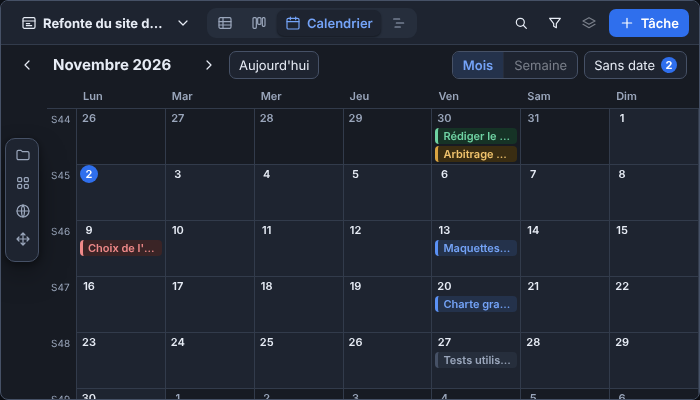
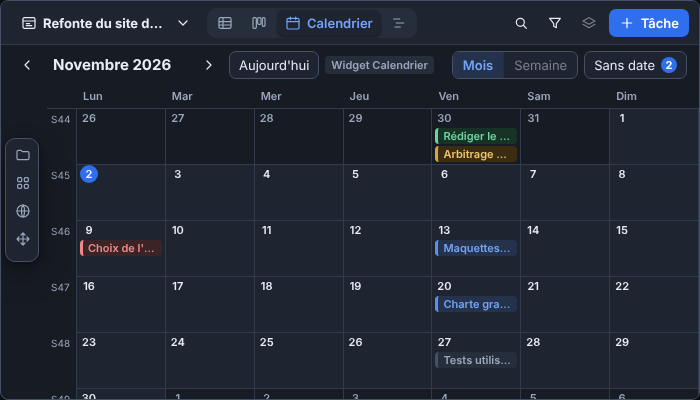
Retours du porteur : calendrier à part, tables et donnée référençable partout, liens entre apps, priorité onboarding
Claude-Session: https://claude.ai/code/session_01TbSoW1xniwzTJnLWvZGB81

Changed region(s): [[0.45, 0.12, 0.63, 0.21]]

diff --git a/maquettes/maquette.js b/maquettes/maquette.js
@@ -57,6 +57,7 @@ const ICONS = {
   open: '<path d="M14 4h6v6M20 4l-9 9M10 6H5v13h13v-5"/>', trash: '<path d="M4 7h16M9 7V4h6v3M6 7l1 13h10l1-13"/>',
   more: '<circle cx="5" cy="12" r="1.2"/><circle cx="12" cy="12" r="1.2"/><circle cx="19" cy="12" r="1.2"/>',
   undo: '<path d="M9 7L4 12l5 5"/><path d="M4 12h10a6 6 0 010 8"/>', check: '<path d="M5 12l5 5 9-10"/>', lock: '<rect x="5" y="11" width="14" height="9" rx="2"/><path d="M8 11V8a4 4 0 018 0v3"/>',
+  slides: '<rect x="3" y="5" width="18" height="12" rx="2"/><path d="M12 17v4M8 21h8"/>',
   doc: '<path d="M7 3h7l5 5v13H7z"/><path d="M14 3v5h5M10 13h6M10 17h6"/>', grid: '<rect x="4" y="5" width="16" height="14" rx="1.5"/><path d="M4 10h16M4 14.5h16M10 5v14"/>',
   form: '<rect x="5" y="3" width="14" height="18" rx="2"/><path d="M9 8h6M9 12h6M9 16h3"/>', bolt: '<path d="M13 3L5 14h6l-1 7 8-11h-6z"/>', project: '<rect x="3" y="4" width="18" height="16" rx="2"/><path d="M3 9h18M8 13h5M8 16h8"/>',
   info: '<circle cx="12" cy="12" r="9"/><path d="M12 11v5M12 8h.01"/>', pin: '<path d="M9 4h6l-1 6 3 3H7l3-3zM12 13v7"/>',
@@ -168,7 +169,7 @@ function viewCalendrier(list) {
       cells.push(`<div class="day ${out ? 'out' : ''} ${s === TODAY ? 'today' : ''}" data-date="${s}"><div class="dn"><b>${num}</b>${ev.length > 2 ? `<span class="more">+${ev.length - 2}</span>` : ''}</div>${ev.slice(0, 2).map((t) => `<button class="ev st-${t.s}" data-act="open" data-v="${t.id}" data-id="${t.id}" draggable="${!S.ro}" title="${esc(t.t)}"><span class="ellipsis" style="display:block">${esc(t.t)}</span></button>`).join('')}</div>`);
     }
   }
-  return `<div class="cal-head"><button class="btn icon" data-act="month" data-v="-1" aria-label="Mois précédent">${ic('left')}</button><h2>${label[0].toUpperCase() + label.slice(1)}</h2><button class="btn icon" data-act="month" data-v="1" aria-label="Mois suivant">${ic('right')}</button><button class="btn line" data-act="today">Aujourd'hui</button><span class="spacer"></span><div class="seg"><button aria-pressed="true">Mois</button><button aria-pressed="false" class="is-off" title="Semaine : même vue en V1, détail dans le cahier">Semaine</button></div><button class="btn line" data-act="menu" data-v="sansdate" aria-haspopup="menu">Sans date <span class="badge">${nodate}</span></button></div><div class="zone" style="padding-top:0"><div class="cal">${cells.join('')}</div></div>`;
+  return `<div class="cal-head"><button class="btn icon" data-act="month" data-v="-1" aria-label="Mois précédent">${ic('left')}</button><h2>${label[0].toUpperCase() + label.slice(1)}</h2><button class="btn icon" data-act="month" data-v="1" aria-label="Mois suivant">${ic('right')}</button><button class="btn line" data-act="today">Aujourd'hui</button><span class="tag" title="Le calendrier est un widget à part que Tuesday intègre">Widget Calendrier</span><span class="spacer"></span><div class="seg"><button aria-pressed="true">Mois</button><button aria-pressed="false" class="is-off" title="Semaine : même vue en V1, détail dans le cahier">Semaine</button></div><button class="btn line" data-act="menu" data-v="sansdate" aria-haspopup="menu">Sans date <span class="badge">${nodate}</span></button></div><div class="zone" style="padding-top:0"><div class="cal">${cells.join('')}</div></div>`;
 }
 const ZOOM = { semaine: 20, mois: 8, trimestre: 4 };
 function viewChrono(list) {
@@ -214,7 +215,7 @@ function drawer() {
   return `<aside class="drawer" aria-label="Fiche de la tâche"><div class="dr-head"><input class="ttl" value="${esc(t.t)}" aria-label="Titre" ${ro}><button class="btn icon" data-act="menu" data-v="plus" aria-haspopup="menu" aria-label="Plus d'actions">${ic('more')}</button><button class="btn icon" data-act="closedrawer" aria-label="Fermer la fiche">${ic('close')}</button></div>
   <div class="dr-body">
     <div class="fld"><label>Statut</label><div class="v">${pill(t.s, S.ro ? 'span' : 'button', S.ro ? '' : `data-act="menu" data-v="statut:${t.id}"`)}</div></div>
-    <div class="fld"><label>Responsable</label><div class="v">${who(t.w)}</div></div>
+    <div class="fld"><label>Responsable</label><div class="v"><button class="lnk" data-act="noop" title="Ouvre la ligne liée (table Équipe)">${who(t.w)}</button></div></div>
     <div class="fld"><label>Début</label><div class="v">${S.noStart ? '<span class="badge-lock">' + ic('lock') + 'Colonne non reliée</span>' : fdate(t.b)}</div></div>
     <div class="fld"><label>Échéance</label><div class="v">${due(t)}</div></div>
     <div class="fld"><label>Priorité</label><div class="v">${prio(t.p)}</div></div>
@@ -224,6 +225,11 @@ function drawer() {
     <h4>Sous-tâches (${subs.length})</h4>
     <ul class="subs">${subs.map((x) => `<li><input type="checkbox" ${x.s === 'done' ? 'checked' : ''} ${ro} aria-label="${esc(x.t)}"><span class="${x.s === 'done' ? 'done' : ''} ellipsis">${esc(x.t)}</span></li>`).join('') || '<li class="muted">Aucune sous-tâche</li>'}
     <li><button class="tbl-add" style="padding-left:0;border:0;background:transparent" ${ro}>${ic('plus')}Ajouter une sous-tâche</button></li></ul>
+    <h4>Fichiers liés (2)</h4>
+    <ul class="subs files">
+      <li>${ic('doc', 'ty-doc')}<span class="ellipsis" style="flex:1">Compte rendu de l'atelier<span class="muted"> · Publipostage+</span></span><button class="btn line" ${S.ro ? '' : ''}>Ouvrir</button></li>
+      <li>${ic('slides', 'ty-slides')}<span class="ellipsis" style="flex:1">Présentation de cadrage<span class="muted"> · Publipostage+</span></span><button class="btn line">Ouvrir</button></li>
+      <li><button class="tbl-add" style="padding-left:0;border:0;background:transparent" ${ro} title="Ouvre l'explorateur de GFS pour choisir un fichier">${ic('plus')}Lier un fichier…</button></li></ul>
     <h4>Autres champs de la table</h4>
     ${EXTRA.map(([k, v]) => `<div class="fld"><label>${esc(k)}</label><div class="v">${esc(v)}</div></div>`).join('')}
   </div>
@@ -273,7 +279,7 @@ function menuHtml() {
   if (m === 'filtre') { body = `<h5>Filtres rapides</h5>${it('Mes tâches', 'filter', 'mine', S.filters.mine)}${it('En retard', 'filter', 'late', S.filters.late)}<hr><h5>Ajoutés à ceux de la vue Grist, jamais à leur place</h5>`; pos = 'top:44px;right:90px'; }
   if (m === 'groupe') { body = `<h5>Grouper par</h5>${it('Phase', 'group', 'g', S.groupBy === 'g')}${it('Statut', 'group', 's', S.groupBy === 's')}${it('Responsable', 'group', 'w', S.groupBy === 'w')}`; pos = 'top:44px;right:50px'; }
   if (m === 'sansdate') { body = `<h5>À planifier : glissez sur un jour</h5>${TASKS.filter((t) => !t.e && !t.par).map((t) => it(esc(t.t), 'open', t.id)).join('')}`; pos = 'top:88px;right:12px'; }
-  if (m === 'plus') { body = `${it('Dupliquer', 'noop', '', null, S.ro ? 'disabled' : '')}${it('Ouvrir dans Grist', 'noop', '')}<hr>${it('Supprimer…', 'noop', '', null, S.ro ? 'disabled' : '')}`; pos = 'top:40px;right:40px'; }
+  if (m === 'plus') { body = `${it('Dupliquer', 'noop', '', null, S.ro ? 'disabled' : '')}${it('Ouvrir dans Grist', 'noop', '')}${it('Insérer la carte dans un document… <span class="tag">V2</span>', 'noop', '', null, 'disabled')}<hr>${it('Supprimer…', 'noop', '', null, S.ro ? 'disabled' : '')}`; pos = 'top:40px;right:40px'; }
   return `<div class="menu" role="menu" style="${pos}">${body}</div>`;
 }
 

diff --git a/maquettes/index.html b/maquettes/index.html
@@ -7,7 +7,7 @@
 <meta http-equiv="Content-Security-Policy" content="default-src 'none'; script-src 'self'; style-src 'self' 'unsafe-inline'; img-src 'self' data:">
 <title>Tuesday : maquette V1</title>
 <link rel="stylesheet" href="../kit/css/tokens.css">
-<link rel="stylesheet" href="maquette.css?v=1">
+<link rel="stylesheet" href="maquette.css?v=3">
 </head>
 <body>
 <header class="mq-top">
@@ -25,6 +25,6 @@
   <div class="mq-stage"><div class="frame" id="frame" data-bar="left"></div></div>
   <p class="mq-caption">Le cadre reproduit le panneau de référence de Grist (700 × 400). La barre de Grist Factory Suite est simulée par-dessus ; la zone qu'elle recouvre est libérée par une simple gouttière dans cette maquette (le détail ligne par ligne est à définir avec GFS). Glissez une carte du kanban ou une tâche du calendrier, cliquez une pastille de statut, une ligne, ou le nom du projet.</p>
 </main>
-<script src="maquette.js?v=1"></script>
+<script src="maquette.js?v=3"></script>
 </body>
 </html>

diff --git a/maquettes/maquette.css b/maquettes/maquette.css
@@ -264,3 +264,10 @@ svg.i.big { width: 36px; height: 36px; color: var(--text-muted); }
 
 .frame[data-bar="left"] .tl-corner, .frame[data-bar="left"] .tl-label { padding-left: 46px; }
 .today-flag { top: 23px; }
+
+.lnk { border: 0; background: transparent; padding: 2px 4px; margin-left: -4px; border-radius: 6px; color: var(--accent-ink); text-decoration: underline; text-underline-offset: 2px; cursor: pointer; }
+.lnk:hover { background: var(--accent-soft); }
+.subs.files li { gap: 8px; }
+.subs.files .muted { font-size: 12px; }
+.ty-slides { color: #c7600a; }
+:root[data-theme="dark"] .ty-slides { color: #f0933e; }

diff --git a/docs/cahier-des-charges.md b/docs/cahier-des-charges.md
@@ -1,18 +1,21 @@
 # Cahier des charges : Tuesday
 
-Gestion de projet pour Grist, dans Grist Factory Suite (GFS). Version 0.1 du 02/11/2026, rédigée avec la maquette V1 (`../maquettes/index.html`). Les raisons de chaque choix viennent de l'étude de l'existant (`etude-existant.md`), des documents de GFS (cahier, guide des apps, contrats) et de la charte Grist Factory (section 1).
+Gestion de projet pour Grist, dans Grist Factory Suite (GFS). Version 0.2 du 02/11/2026, rédigée avec la maquette V1 (`../maquettes/index.html`). **0.2 : retours du porteur intégrés** (Calendrier à part, tables et donnée référençable partout, intégration entre apps dès la V1) ; détail dans `integration-suite.md`. Les raisons de chaque choix viennent de l'étude de l'existant (`etude-existant.md`), des documents de GFS (cahier, guide des apps, contrats) et de la charte Grist Factory (section 1).
 
 **Nom.** « Tuesday » est le nom de travail, celui du dépôt. Les documents de GFS parlent de « Thusday » (faute de frappe probable). Les identifiants proposés ici : app `tuesday`, tables `Tuesday_…`. À confirmer (section 13, question 1).
 
 ## En bref
 
-- **Ce que c'est.** Un widget Grist qui montre les lignes d'une table comme un projet : un **tableau**, un **kanban**, un **calendrier** et une **chronologie**, avec une **fiche** par tâche. Inspiré de monday.com pour la clarté, volontairement bien plus simple.
+- **Priorité n°1 : l'onboarding et la fluidité** (principe 0, section 2).
+- **Ce que c'est.** Un widget Grist qui montre les lignes d'une table comme un projet : un **tableau**, un **kanban** et une **chronologie**, avec une **fiche** par tâche ; le **calendrier** est un widget à part que Tuesday intègre (`integration-suite.md`, 1). Inspiré de monday.com pour la clarté, volontairement bien plus simple.
 - **Ce qu'il fait de différent.** Il travaille **avec** la donnée de la personne : il se **branche sur une table existante** par une correspondance de colonnes choisie dans l'interface, et n'impose aucune structure. Les statuts, les couleurs, les personnes viennent de Grist.
 - **Ce qu'il ne fait pas.** Pas de calcul (les formules restent dans Grist), pas de formulaires (Form+), pas d'automatisations (Automation+), pas de tableaux de bord riches (Grist-BI), pas de documents (Publipostage+).
 - **Dans GFS.** Un **projet** est un fichier de l'explorateur de GFS (une ligne de la table `Tuesday_Projets`). Tuesday suit les contrats de GFS : manifeste `gfs.json`, kit commun en sous-module, langue et barre de GFS, stockage par le courtier, grisé jamais masqué.
 - **Livraison.** Pages statiques sur GitHub Pages, sans étape de construction, sans bibliothèque tierce en V1. Utilisé surtout sur l'instance Grist de la DINUM.
 - **Tests.** Exhaustifs dès la première ligne de code (section 10).
-- **Trois versions.** V1 « Suivre » (quatre vues, fiche, correspondance), V2 « Piloter » (dépendances, charge, synthèse, récurrence), V3 « Connecter » (liens vers les autres apps de la suite, commentaires, temps).
+- **Données.** Navigation libre entre les tables, **deux tables propres au plus**, tout en colonnes lisibles : une tâche se référence de partout dans le document comme une variable de Publipostage+ (section 5.7).
+- **Intégration entre apps dès la V1.** Ouvrir un fichier de Publipostage+ (document, grille, présentation) depuis une carte ; ensuite, insérer une carte dans un document (V2, contrat posé dès maintenant).
+- **Trois versions.** V1 « Suivre » (tableau, kanban, chronologie, calendrier intégré, fiche, correspondance, fichiers liés), V2 « Piloter » (insertion de carte, dépendances, charge, synthèse, récurrence), V3 « Connecter » (commentaires, temps, portefeuille).
 
 ---
 
@@ -42,6 +45,7 @@ Les équipes qui travaillent dans Grist suivent déjà leur activité dans des t
 
 Dans l'ordre : quand deux principes s'opposent, le premier gagne.
 
+0. **Onboarding et fluidité d'abord** (priorité n°1, porteur, 02/11). Un outil qui ne bloque jamais, utilisable pour un projet simple **sans boutons partout** : la première minute est l'étape la plus importante, et chaque choix de ce cahier se juge d'abord à ce critère. Règles qui en découlent : un projet simple n'a besoin d'aucune configuration au-delà de la correspondance ; la barre du haut garde au plus **sept contrôles visibles** à 700 × 400 (projet, quatre vues, recherche, filtre, groupement, ajout) et une fonction avancée se montre quand on en a besoin (menu, fiche), pas avant ; aucune erreur muette ni écran bloquant, toujours une sortie dite en une phrase. L'onboarding détaillé (premier lancement, première correspondance, modèle de départ, aide) est conçu dans un **fil dédié** (« Concevoir l'onboarding de Tuesday ») ; ce cahier en fixe seulement le critère.
 1. **UX d'abord, simple et efficace.** Chaque écran a une action principale évidente. Quatre vues au premier jour, jamais quinze. Une option nouvelle doit justifier la place qu'elle prend.
 2. **On fait AVEC la donnée, pas à la place d'elle.** Aucune structure imposée. Une table existante, une correspondance de colonnes, et c'est parti. Les couleurs des statuts de Grist sont **celles de Grist**.
 3. **Grist décide.** Les droits sont ceux de Grist (une personne en lecture seule ne modifie rien), les filtres et le tri de la vue Grist sont respectés, la fiche native reste à un clic.
@@ -87,12 +91,11 @@ Chacun sert de **test d'acceptation de l'interface** (section 10.5).
 
 ```
 Document Grist
- ├─ Table des tâches (la leur, existante)  ← « source »
- └─ Tuesday_Projets  (une ligne par projet, créée avec l'accord de la personne)
-        │
-        └─ Projet = source + correspondance de colonnes + réglages des vues
-                          │
-                          └─ Vues : Tableau · Kanban · Calendrier · Chronologie
+ ├─ Table des tâches (la leur, existante)   ← « source », jamais copiée
+ ├─ Tuesday_Projets  un projet par ligne : source + correspondance + réglages des vues
+ └─ Tuesday_Liens    liens d'une tâche vers des fichiers d'autres apps (facultative)
+
+Un projet montre sa source par des vues : Tableau · Kanban · Chronologie · Calendrier (intégré)
 ```
 
 | Objet | Définition | Où il vit |
@@ -183,9 +186,9 @@ La source est la table de la **section** du widget (le choix naturel : « Sélec
 
 **Annuler/Rétablir** garde l'inverse de chaque action (ancienne valeur par colonne), dans l'ordre, et **n'écrase jamais** une valeur qu'une autre personne a changée depuis : le coin d'état le dit (même principe que `ActionHistory` de Publipostage+). Un lot d'écritures (un glisser qui change deux colonnes) est un pas.
 
-### 5.5 La table `Tuesday_Projets` et le modèle de départ
+### 5.5 Les tables `Tuesday_Projets` et `Tuesday_Liens`, et le modèle de départ
 
-Une table, créée avec l'accord de la personne. Proposition de colonnes (additif, versionné par `Schema`) :
+**Deux tables au plus**, créées avec l'accord de la personne : `Tuesday_Projets` (ci-dessous) et `Tuesday_Liens` (liens d'une tâche vers des fichiers d'autres apps, `integration-suite.md`, 3.1). Proposition de colonnes (additif, versionné par `Schema`) :
 
 | Colonne | Contenu |
 |---|---|
@@ -205,6 +208,14 @@ Les identifiants de colonnes sont des colonnes de texte et non un seul JSON : on
 ### 5.6 Cas limites à traiter (chacun a ses tests)
 
 Table vide ; ligne sans statut (rangée dans une colonne « Sans statut », jamais perdue) ; statut absent de la liste des choix (affiché tel quel, grisé) ; référence cassée ; dates invalides, fin avant début ; dates avec heure (la date locale suffit) ; milliers de lignes (affichage fenêtré, section 9.4) ; titre très long (tronqué par « … ») ; colonne reliée supprimée ou renommée ; document en lecture seule ; Choice sans couleur ; plusieurs responsables ; sous-tâche dont le parent est filtré.
+
+### 5.7 Naviguer entre les tables, référencer la donnée partout
+
+Retour du porteur (02/11) : comme dans GFS et Publipostage+, **on navigue entre les tables sans souci**, et la donnée se récupère et se référence **de partout dans le document, aussi efficacement que les variables de Publipostage+**. Trois règles (détail : `integration-suite.md`, 2) :
+
+1. **Colonnes lisibles, rien de caché.** Tout ce que Tuesday sait d'une tâche est une colonne de Grist ; une variable de Publipostage+, une formule, un widget lié ou Automation+ la lisent sans passer par Tuesday.
+2. **Deux tables propres au plus**, à colonnes stables et versionnées (`Schema`), documentées dans `docs/donnees.md` (à écrire avec le modèle).
+3. **Navigation** : changer de projet sans quitter le widget ; un clic sur une valeur Référence ouvre la ligne liée avec son fil d'Ariane ; « Ouvrir dans Grist » place le curseur sur la ligne.
 
 ---
 
@@ -234,7 +245,9 @@ Toutes les vues partagent la **barre du haut** : sélecteur de projet, onglets d
 - Colonnes repliables ; nombre de cartes dans l'en-tête. **Pas de limites de travail en cours, pas de règles d'entrée** : c'est le territoire d'Automation+.
 - Option V1 : **couloirs** (regroupement par ligne, par responsable ou groupe), repliés par défaut.
 
-### 6.3 Calendrier
+### 6.3 Calendrier (widget à part, intégré)
+
+**Décision du porteur (02/11)** : le calendrier est un **widget à part**, qui marche seul, et que Tuesday intègre pour son usage. Voie proposée : un module du kit monté par les deux (`integration-suite.md`, 1). En V1 de Tuesday, l'onglet existe, **grisé avec sa raison** tant que le module n'est pas là. La maquette montre l'écran cible.
 
 **But** : voir ce qui tombe quand.
 
@@ -260,10 +273,12 @@ Toutes les vues partagent la **barre du haut** : sélecteur de projet, onglets d
 
 - Panneau à droite (voir question 5, section 13) : titre modifiable, statut, responsable, dates, priorité, étiquettes, avancement, description.
 - **Sous-tâches** : liste à cases, ajout rapide.
-- **Autres champs** : toutes les colonnes de la table non reliées, par leur type.
+- **Autres champs** : toutes les colonnes de la table non reliées, par leur type ; une valeur Référence est cliquable (ligne liée et fil d'Ariane).
+- **Fichiers liés** (V1) : documents, grilles, présentations d'autres apps de GFS ; « Lier un fichier… » (action `choisir`), « Ouvrir » (action `ouvrir`).
 - « **Ouvrir dans Grist** » : place le curseur de Grist sur la ligne, pour la fiche native et les widgets liés.
 - Menu « … » : dupliquer, supprimer (confirmation).
-- V3 : liens vers des fichiers GFS, commentaires, temps passé.
+- Menu « … » : « Insérer la carte dans un document… » (V2, action `insérer`).
+- V3 : commentaires, temps passé.
 
 ### 6.6 Correspondance des colonnes (la première fenêtre)
 
@@ -363,12 +378,12 @@ Proposition, au format du cahier de GFS (5.1) ; les chiffres et la forme exacte 
   },
   "extensions": [],
   "dependances": "package.json",
-  "actions": { "ouvrir": ["projet"], "choisir": ["projet"], "inserer": [] }
+  "actions": { "ouvrir": ["projet"], "choisir": ["projet"], "inserer": { "produit": [], "recoit": [] } }
 }
 ```
 
 - **Accès complet** : Tuesday doit lire la table de la personne, qu'on ne connaît pas à l'avance. `lit` et `ecrit` à `"*"`, comme Publipostage+, parce que la source est choisie à l'exécution. Mitigation : **rien ne s'écrit hors des colonnes reliées**, et l'étape de correspondance affiche exactement ce que Tuesday pourra modifier (6.6). Voir le risque R2.
-- **Aucune extension en V1** : pas de bibliothèque lourde.
+- **Aucune extension en V1** : pas de bibliothèque lourde. Un second jeu de tables (`Tuesday_Liens`) s'ajoute à `fichiers` ou `tables` selon ce que GFS décide ; `inserer.produit` passera à `["carte"]` en V2.
 - **Aucune clé de réglage de la vue en V1** : la définition d'un projet vit dans une table (guide des apps, 1.1 règle 2). Une clé `tuesday_projet` (identifiant du projet de la vue) pourra s'ajouter pour que « une vue qui porte ton réglage s'ouvre sur ton app ».
 
 ### 8.3 Ouverture et arrivée
@@ -377,12 +392,14 @@ Proposition, au format du cahier de GFS (5.1) ; les chiffres et la forme exacte 
 2. Sans fichier désigné : le dernier projet de la personne (stockage), sinon, la liste des projets du document, sinon l'écran de démarrage.
 3. Seule (hors GFS) : mêmes ordres, la liste des projets étant le sélecteur de projet de la barre du haut.
 
-### 8.4 Interopérabilité avec la suite (V3, par la donnée et les contrats)
+### 8.4 Interopérabilité avec la suite (prévue dès la V1, par la donnée et les contrats)
 
-- **Publipostage+** : lier un document (compte rendu, note) à une tâche par l'action `choisir`. Tuesday garde `{ app, id, nom, type }`, jamais le code de l'autre app.
-- **Form+** : un formulaire qui alimente la table source. Tuesday n'en sait rien, il voit les lignes arriver.
-- **Automation+** : réagit aux changements de statut de la table source. Tuesday ne le sait pas non plus. Aucun couplage.
-- **Grist-BI / Dashboard** : lit la même table. Tuesday peut fournir un **rendu portable** (`insérer`) d'une synthèse, plus tard.
+Détail et contrats proposés : `integration-suite.md`, 3.
+
+- **Ouvrir un fichier depuis une carte** (V1) : Publipostage+ (document, grille, **présentation**, les diapositives étant son extension) par `choisir` puis `ouvrir` ; liens gardés dans `Tuesday_Liens`. Slides+ n'est pas une app de GFS : ses diapositives vivent dans Publipostage+.
+- **Insérer une carte dans un document** (V2, contrat posé maintenant) : rendu portable (`inserer`, contrats 5.4) avec la source de la tâche ; la valeur simple d'une tâche s'insère aussi comme une **variable**, parce que la donnée est en colonnes lisibles.
+- **Form+** : un formulaire qui alimente la table source ; Tuesday voit les lignes arriver. **Automation+** : réagit aux changements de statut de la table, sans couplage. **Grist-BI / Dashboard** : lit la même table.
+- **Calendrier** : widget à part, intégré (6.3).
 
 ### 8.5 Demandes à GFS à poser pendant le développement
 
@@ -393,6 +410,9 @@ Proposition, au format du cahier de GFS (5.1) ; les chiffres et la forme exacte 
 3. Définir comment les personnes d'un document sont connues (pour « Mes tâches »), sans table-sonde si possible.
 4. Couleur du type « Projet » dans l'explorateur (neutre pour l'instant).
 5. Écarter la barre de GFS quand elle recouvre un tableau (zone à gauche au milieu à 700 × 400).
+6. Calendrier : voie A (module du kit) ou B (app ouverte par GFS) ; contrat du module.
+7. Insertion d'une carte : forme de `inserer.produit`, déroulement (étape 7 de GFS), accord de Publipostage+ pour accepter `carte`.
+8. Liens vers des fichiers : où ranger `Tuesday_Liens` dans `fichiers`/`tables`, et que faire d'un fichier renommé ou disparu.
 
 ---
 
@@ -502,10 +522,10 @@ Les sept scénarios S1 à S7 (section 3.2) sont écrits comme essais de navigate
 
 | | **V1 « Suivre »** | **V2 « Piloter »** | **V3 « Connecter »** |
 |---|---|---|---|
-| Vues | Tableau, Kanban, Calendrier, Chronologie, fiche | Charge de travail, Synthèse | Mon travail, Portefeuille |
-| Données | Correspondance, modèle de départ, sous-tâches, ordre manuel | Dépendances, jalons enrichis, plusieurs responsables complets, récurrence | Commentaires, temps passé, liens vers fichiers GFS |
-| Gestes | Glisser, édition sur place, ajout rapide, annuler/rétablir, recherche, filtres, regroupement | Sélection multiple et actions groupées, copier-coller depuis un tableur, vues enregistrées | Actions `choisir` et `insérer` |
-| GFS | Fichier « Projet », langue, barre, stockage, lecture seule, ouvrir/fermer | Clé de réglage de la vue, dossiers d'équipe | Responsable d'espace, rendu portable |
+| Vues | Tableau, Kanban, Chronologie, fiche ; **Calendrier par intégration** | Charge de travail, Synthèse | Mon travail, Portefeuille |
+| Données | Correspondance, modèle de départ, sous-tâches, ordre manuel, **navigation entre tables**, **fichiers liés** (`Tuesday_Liens`) | Dépendances, jalons enrichis, plusieurs responsables complets, récurrence | Commentaires, temps passé |
+| Gestes | Glisser, édition sur place, ajout rapide, annuler/rétablir, recherche, filtres, regroupement, suivre une Référence | Sélection multiple et actions groupées, copier-coller depuis un tableur, vues enregistrées | — |
+| GFS | Fichier « Projet », langue, barre, stockage, lecture seule, ouvrir/fermer, `choisir` et `ouvrir` vers Publipostage+ | **Insertion d'une carte** (`inserer`), clé de réglage de la vue, dossiers d'équipe | Responsable d'espace |
 | Qualité | Tests exhaustifs du cœur, hygiène, contrat, essais 700 × 400, labo GFS | Budgets de performance en continu | Essais d'interopérabilité |
 
 **Hors périmètre**, sauf décision du porteur : tableaux blancs, chat, assistant d'IA, objectifs, formulaires, automatisations, graphiques riches, documents, notifications par courriel.
@@ -531,7 +551,7 @@ Les sept scénarios S1 à S7 (section 3.2) sont écrits comme essais de navigate
 
 ## 13. Décisions à valider
 
-Une seule question à fort enjeu est posée à Antoine en carte de décision (la 2). Pour les autres, **un défaut a été pris**, écrit ici ; rien ne se code avant son accord (règle de GFS).
+Antoine a répondu à la question 2 en parlant de « une ou deux tables pour le widget, la donnée référençable de partout » : tables existantes d'abord, deux tables propres au plus (5.7). Pour les autres, **un défaut a été pris**, écrit ici ; rien ne se code avant son accord (règle de GFS).
 
 | N° | Question | Défaut pris | Effet si l'autre réponse |
 |---|---|---|---|
@@ -545,6 +565,7 @@ Une seule question à fort enjeu est posée à Antoine en carte de décision (la
 | 8 | **Commentaires et mises à jour** (V3) : table `Tuesday_Activite` ou rien | Reporté à la V3 | — |
 | 9 | **Récurrence** (V2) : dans Tuesday ou dans Automation+ ? | Automation+ crée la ligne suivante ; Tuesday l'affiche | Dans Tuesday : un calcul de plus dans le widget |
 | 10 | **Plusieurs responsables** : dès la V1 ? | Oui, si la colonne est une Liste de références (affichage et édition), sinon un seul | Un seul en V1 : plus simple, mais c'est la demande n° 1 de la communauté |
+| 11 | **Calendrier à part** : voie A (module du kit monté par les deux) ou B (app ouverte par GFS) ? | A : un seul code, la vue reste dans la barre et le filtre de Tuesday | B : aucun code partagé, mais une app à la fois et une vue détachée |
 
 ---
 

diff --git a/docs/integration-suite.md b/docs/integration-suite.md
@@ -1,0 +1,99 @@
+# Tuesday dans la suite : données partagées et liens entre apps
+
+Ajouté le 02/11/2026, après les retours d'Antoine sur la maquette V1. Ce document précise trois points du cahier des charges : le **Calendrier à part**, les **tables et la donnée référençable partout**, les **liens entre apps** (ouvrir un fichier depuis une carte, insérer une carte dans un document). Il propose des contrats ; ceux de GFS font foi, et chaque point ouvert part en « Demande à GFS » (cahier, 8.5).
+
+## 1. Le Calendrier est un widget à part, que Tuesday intègre
+
+**Décision du porteur (02/11).** Le calendrier est un projet à lui, qui marche **seul** (hors Tuesday, sur n'importe quelle table) et que Tuesday **intègre** comme sa vue Calendrier.
+
+Contrainte de GFS : *une app n'importe jamais le code d'une autre app* ; ce qui sert à deux apps va dans le **kit** (qui n'a aucune bibliothèque). Deux voies :
+
+| Voie | Principe | Pour | Contre |
+|---|---|---|---|
+| **A. Un module de calendrier dans le kit** (proposée) | Le calendrier est écrit une fois, dans son dépôt, comme un **module ES sans DOM global** (il reçoit des lignes et un élément, rend des événements : `ouvrir`, `deplacer`, `ajouter`). Une version du kit le porte. L'app Calendrier le monte en pleine page ; Tuesday le monte dans sa vue. | Un seul code, deux usages, même page chargée, aucune latence, respecte « kit ← apps » | Le kit grossit ; chaque évolution du calendrier est une étiquette du kit |
+| **B. Deux apps, Tuesday ouvre l'autre** | Tuesday ne contient pas de calendrier : sa vue Calendrier est l'app Calendrier ouverte par GFS sur la même table | Aucun code partagé | Deux sous-cadres à la fois (GFS en fait une seule app active par section) ; la vue n'est plus intégrée à la barre et au filtre de Tuesday |
+
+**Conséquences pour la V1 de Tuesday.**
+
+- Tuesday V1 contient en natif **Tableau, Kanban, Chronologie** ; la vue **Calendrier arrive par l'intégration** dès que le module existe. Dans la barre, l'onglet est déjà là : grisé avec « Le Calendrier arrive avec le widget Calendrier » tant qu'il manque (grisé, jamais masqué).
+- **Contrat du module** (à écrire avec le projet Calendrier) : entrée = lignes normalisées `{ id, titre, debut, fin, statut, couleur, responsables }` et la correspondance de colonnes ; sortie = événements `ouvrir(id)`, `deplacer(id, debut, fin)`, `ajouter(date)`. Le module ne parle jamais à Grist : l'app hôte écrit.
+- Le Calendrier seul a sa propre correspondance de colonnes (la même fenêtre, mêmes rôles : titre, début, fin, couleur, personne), et lit la table de sa section.
+- **Demande à GFS** : choisir A ou B (question 11 du cahier).
+
+## 2. Les tables : naviguer partout, une donnée référençable de partout
+
+**Retour du porteur.** Comme GFS et Publipostage+, on doit pouvoir **naviguer entre les tables sans souci**. Le widget peut avoir une ou deux tables à lui, mais la donnée doit être **récupérable et référençable de partout dans le document, aussi efficacement que les variables de Publipostage+**.
+
+### 2.1 Les trois règles
+
+1. **La donnée reste dans Grist, en colonnes lisibles.** Une tâche est une ligne d'une table ordinaire. Tout ce que Tuesday sait d'une tâche est une **colonne** (pas un JSON caché). Donc une variable de Publipostage+ (`#Tâches.Titre`), une formule Grist, un autre widget lié, une règle d'accès ou Automation+ la lisent **sans passer par Tuesday**.
+2. **Deux tables propres au maximum**, créées avec l'accord de la personne, à colonnes lisibles et stables :
+   - `Tuesday_Projets` : un projet par ligne (source, correspondance, vue par défaut). Colonnes en texte clair ; les réglages d'affichage seuls en JSON (voir cahier, 5.5).
+   - `Tuesday_Liens` : une ligne par lien entre une tâche et un fichier d'une autre app (section 3).
+3. **Une table de plus seulement avec un cas qui l'exige** (commentaires, V3 : `Tuesday_Activite`) ; sinon la ligne réservée d'une table existante (règle de GFS).
+
+### 2.2 Naviguer entre les tables dans Tuesday
+
+| Geste | Résultat |
+|---|---|
+| **Changer de projet** (sélecteur du haut) | Change de table source sans quitter le widget ; la dernière vue de chaque projet est retenue |
+| **Clic sur une valeur de colonne Référence** (responsable, tâche parente, client…) | Ouvre la **ligne liée** dans un panneau, avec son fil d'Ariane (« Tâches › Équipe › Camille ») ; un second clic va plus loin, « Retour » revient. Ce sont les « Tables liées » de Publipostage+, par les colonnes Référence de Grist |
+| **« Ouvrir dans Grist »** | Place le curseur de Grist sur la ligne (page et table de la ligne), pour la fiche native et les widgets liés |
+| **Un projet = une table, mais plusieurs projets par document** | Un même document peut suivre des tâches, des risques et des jalons en trois projets, côte à côte dans le sélecteur |
+| **Filtrer par une référence** (« les tâches de ce responsable ») | Depuis la ligne liée, un clic filtre la vue sur elle |
+
+Aucune donnée n'est recopiée : un projet lit la table, un clic de navigation lit une autre table par la colonne Référence.
+
+### 2.3 Référencer la donnée de Tuesday ailleurs
+
+- **Publipostage+** : les tâches étant des lignes de table, ses variables les prennent comme n'importe quelle table. Ce que Tuesday ajoute doit rester **lisible comme une variable** : noms de colonnes stables, versionnés par `Schema`, listés dans la documentation (`docs/donnees.md`, à écrire avec le modèle), jamais renommés.
+- **Une cellule de Grist** : colonnes `Tuesday_Liens` référençant la tâche (`Ref`) ; une formule Grist peut compter les fichiers liés d'une tâche.
+- **Une carte dans un document** : section 3.2.
+
+## 3. Intégration entre les widgets de GFS, prévue dès la V1
+
+### 3.1 Ouvrir un fichier d'une autre app depuis une carte
+
+Le cas : « Ouvrir le compte rendu de la réunion » depuis une tâche, dans Publipostage+ (document, grille ou **présentation** : les diapositives sont désormais une extension de Publipostage+ ; Slides+ reste une référence).
+
+- La fiche a une section **Fichiers liés** : liste de fichiers (icône du type, nom, application), « Lier un fichier… », « Ouvrir ».
+- **Lier** : action `choisir` de GFS (l'explorateur s'ouvre en mode choix, filtré par type) → `{ app, id, nom, type }`. Tuesday écrit une ligne de `Tuesday_Liens`.
+- **Ouvrir** : action `ouvrir` de GFS (« fermer » d'abord, puis l'app active). Quand Tuesday tourne seul : grisé, texte commun de GFS.
+- Le **nom** du fichier est relu à l'ouverture (GFS permet de le renommer) ; si le fichier a disparu : lien grisé « Fichier introuvable », jamais supprimé en silence.
+
+Table `Tuesday_Liens` (colonnes lisibles) :
+
+| Colonne | Contenu |
+|---|---|
+| `Projet` | Référence vers `Tuesday_Projets` |
+| `Table`, `Ligne` | Table et identifiant de la tâche (texte et numérique, pour survivre à une suppression de ligne) |
+| `App`, `Fichier`, `Type`, `Nom` | `{ app, id, type, nom }` rendu par `choisir` |
+| `Cree` | Date de création du lien |
+
+### 3.2 Insérer une carte de Tuesday dans un document
+
+Le cas inverse : mettre dans un compte rendu de Publipostage+ la **carte** d'une tâche (titre, statut, responsable, échéance), qui reste à jour.
+
+Cela suit l'action `insérer` de GFS (contrats 5.2 et 5.4 : rendu portable) :
+
+- Tuesday déclare dans son manifeste : `"inserer": { "produit": ["carte"], "recoit": [] }` (forme du brouillon, à valider avec GFS).
+- Le rendu est un **rendu portable** : `{ format: "svg", donnees, largeur, hauteur, texteAlternatif, source: { app: "tuesday", id, type: "carte", version } }`. `source.id` désigne la tâche (`table:ligne`).
+- Publipostage+ **garde le rendu et la source** ; sans Tuesday, le rendu reste affiché et sa mise à jour est grisée. Il ne charge jamais le code de Tuesday ; il traite `donnees` comme non fiable (image, jamais insérée dans la page).
+- **Mise à jour** : la source dit quelle ligne lire. Pour une carte qui doit rester vivante, la **donnée prime sur le rendu** : Publipostage+ peut relire la ligne par sa variable (`table:ligne`) et ne garder le rendu que comme repli. C'est l'avantage de la règle 2.1 : la valeur « simple » d'une tâche (un statut, une échéance) s'insère **comme une variable**, sans passer par Tuesday.
+- Dans Tuesday : « Insérer la carte dans un document… » dans le menu « … » de la fiche, qui lance l'insertion (grisé sans GFS).
+
+**Ce qui dépend de GFS et de Publipostage+** (étape 7 de GFS, pas encore écrite) : le déroulement de l'insertion (deux sous-cadres à la fois), la taille maximale d'un rendu, et le côté Publipostage+ (accepter `carte`). Ce document n'invente pas ce déroulement.
+
+### 3.3 Ce qui part en demande
+
+| À qui | Demande |
+|---|---|
+| GFS | Voie A ou B pour le Calendrier (1) ; forme de `inserer.produit` pour une carte ; état du déroulement de l'insertion (étape 7) ; type « Projet » dans l'explorateur ; fichier lié renommé ou disparu |
+| Publipostage+ | Accepter un rendu `carte` ; lire une carte par la variable de sa source ; ouvrir un document à partir d'un identifiant donné par Tuesday (déjà : `ouvrir`) |
+| Projet Calendrier | Contrat du module (1) |
+
+## 4. Effets sur le cahier des charges
+
+- **V1** : Tableau, Kanban, Chronologie en natif ; Calendrier par intégration ; **Fichiers liés** (lier, ouvrir) ; navigation entre tables (changer de projet, suivre une Référence) ; deux tables propres au plus.
+- **V2** : insertion d'une carte dans un document ; dépendances ; charge ; synthèse.
+- **V3** : commentaires (`Tuesday_Activite`), temps passé, portefeuille.

diff --git a/maquettes/LISEZ-MOI.md b/maquettes/LISEZ-MOI.md
@@ -25,6 +25,7 @@ Ce qui bouge dans la maquette : glisser une carte du kanban vers une autre colon
 | Chronologie | ![](captures/chronologie-light.png) | ![](captures/chronologie-dark.png) |
 | Fiche d'une tâche | ![](captures/fiche-light.png) | ![](captures/fiche-dark.png) |
 | Correspondance des colonnes | ![](captures/correspondance-light.png) | ![](captures/correspondance-dark.png) |
+| Fiche : fichiers liés (Publipostage+) | ![](captures/fiche-fichiers-light.png) | ![](captures/fiche-fichiers-dark.png) |
 | Démarrage, sans projet | ![](captures/demarrage-light.png) | ![](captures/demarrage-dark.png) |
 | Explorateur de GFS | ![](captures/explorateur-light.png) | ![](captures/explorateur-dark.png) |
 
@@ -45,6 +46,8 @@ Choix faits (à valider, cahier section 13) :
 - **Fiche à droite**, non modale, pour garder la vue sous les yeux (alternative : fenêtre de la base commune).
 - **Icônes au trait**, police du système, un seul bleu, rayons de 7 px : la charte Grist Factory.
 
-Hors maquette, volontairement : la vue Semaine du calendrier, les dépendances, la charge de travail, la synthèse (V2), les liens vers les autres apps (V3), les menus d'édition d'une date, la version anglaise.
+Ajouts du 02/11 (retours du porteur) : la fiche montre les **fichiers liés** (lier, ouvrir) et le menu « … » l'**insertion de la carte dans un document** (grisée, V2) ; une valeur de Référence est cliquable ; le calendrier est marqué **widget à part**, intégré (`../docs/integration-suite.md`).
+
+Hors maquette, volontairement : la vue Semaine du calendrier, les dépendances, la charge de travail, la synthèse (V2), les menus d'édition d'une date, la version anglaise.
 
 Écarts assumés avec le code final : la maquette utilise des styles en ligne (CSP assouplie sur `style-src`), alors que l'app aura la CSP stricte du kit et posera ses positions par le CSSOM ; les prénoms n'apparaissent pas (initiales et noms d'exemple), conformément à la règle de GFS.

diff --git a/README.md b/README.md
@@ -10,6 +10,7 @@ Un widget de gestion de projet pour [Grist](https://www.getgrist.com), fait pour
 |---|---|
 | Cahier des charges | [`docs/cahier-des-charges.md`](docs/cahier-des-charges.md) |
 | Étude de l'existant (widgets Grist, Monday, ClickUp) | [`docs/etude-existant.md`](docs/etude-existant.md) |
+| Intégration à la suite (calendrier à part, tables, liens entre apps) | [`docs/integration-suite.md`](docs/integration-suite.md) |
 | Maquette V1 (page à ouvrir, captures) | [`maquettes/`](maquettes/LISEZ-MOI.md) |
 
 ## Principes
